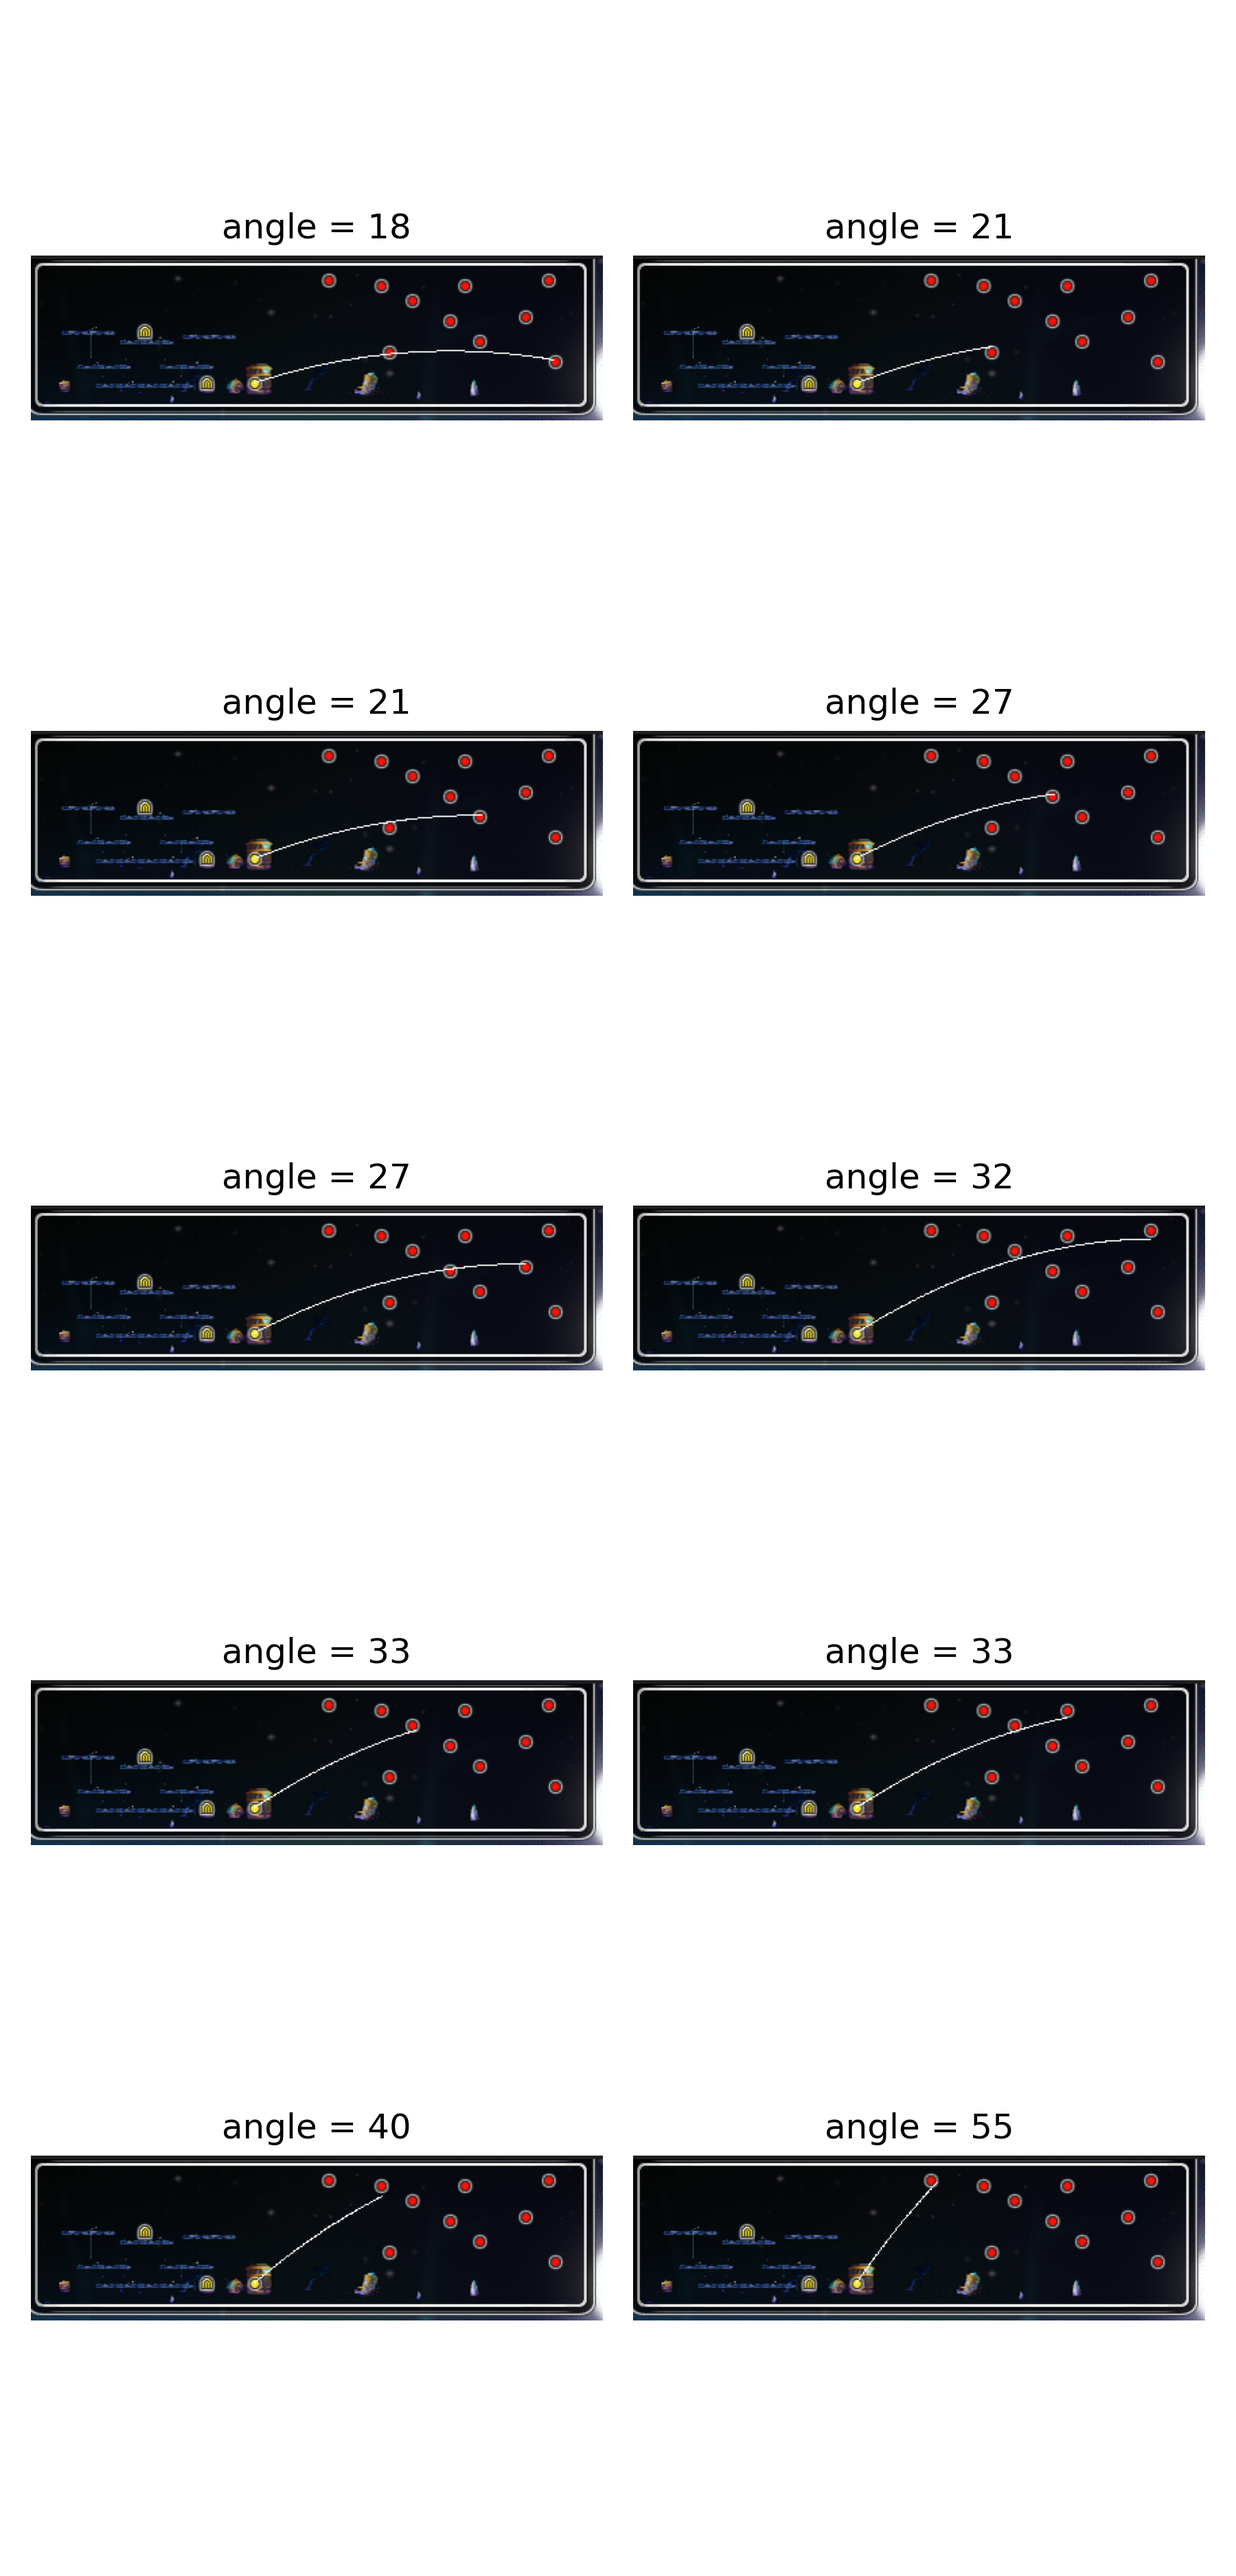
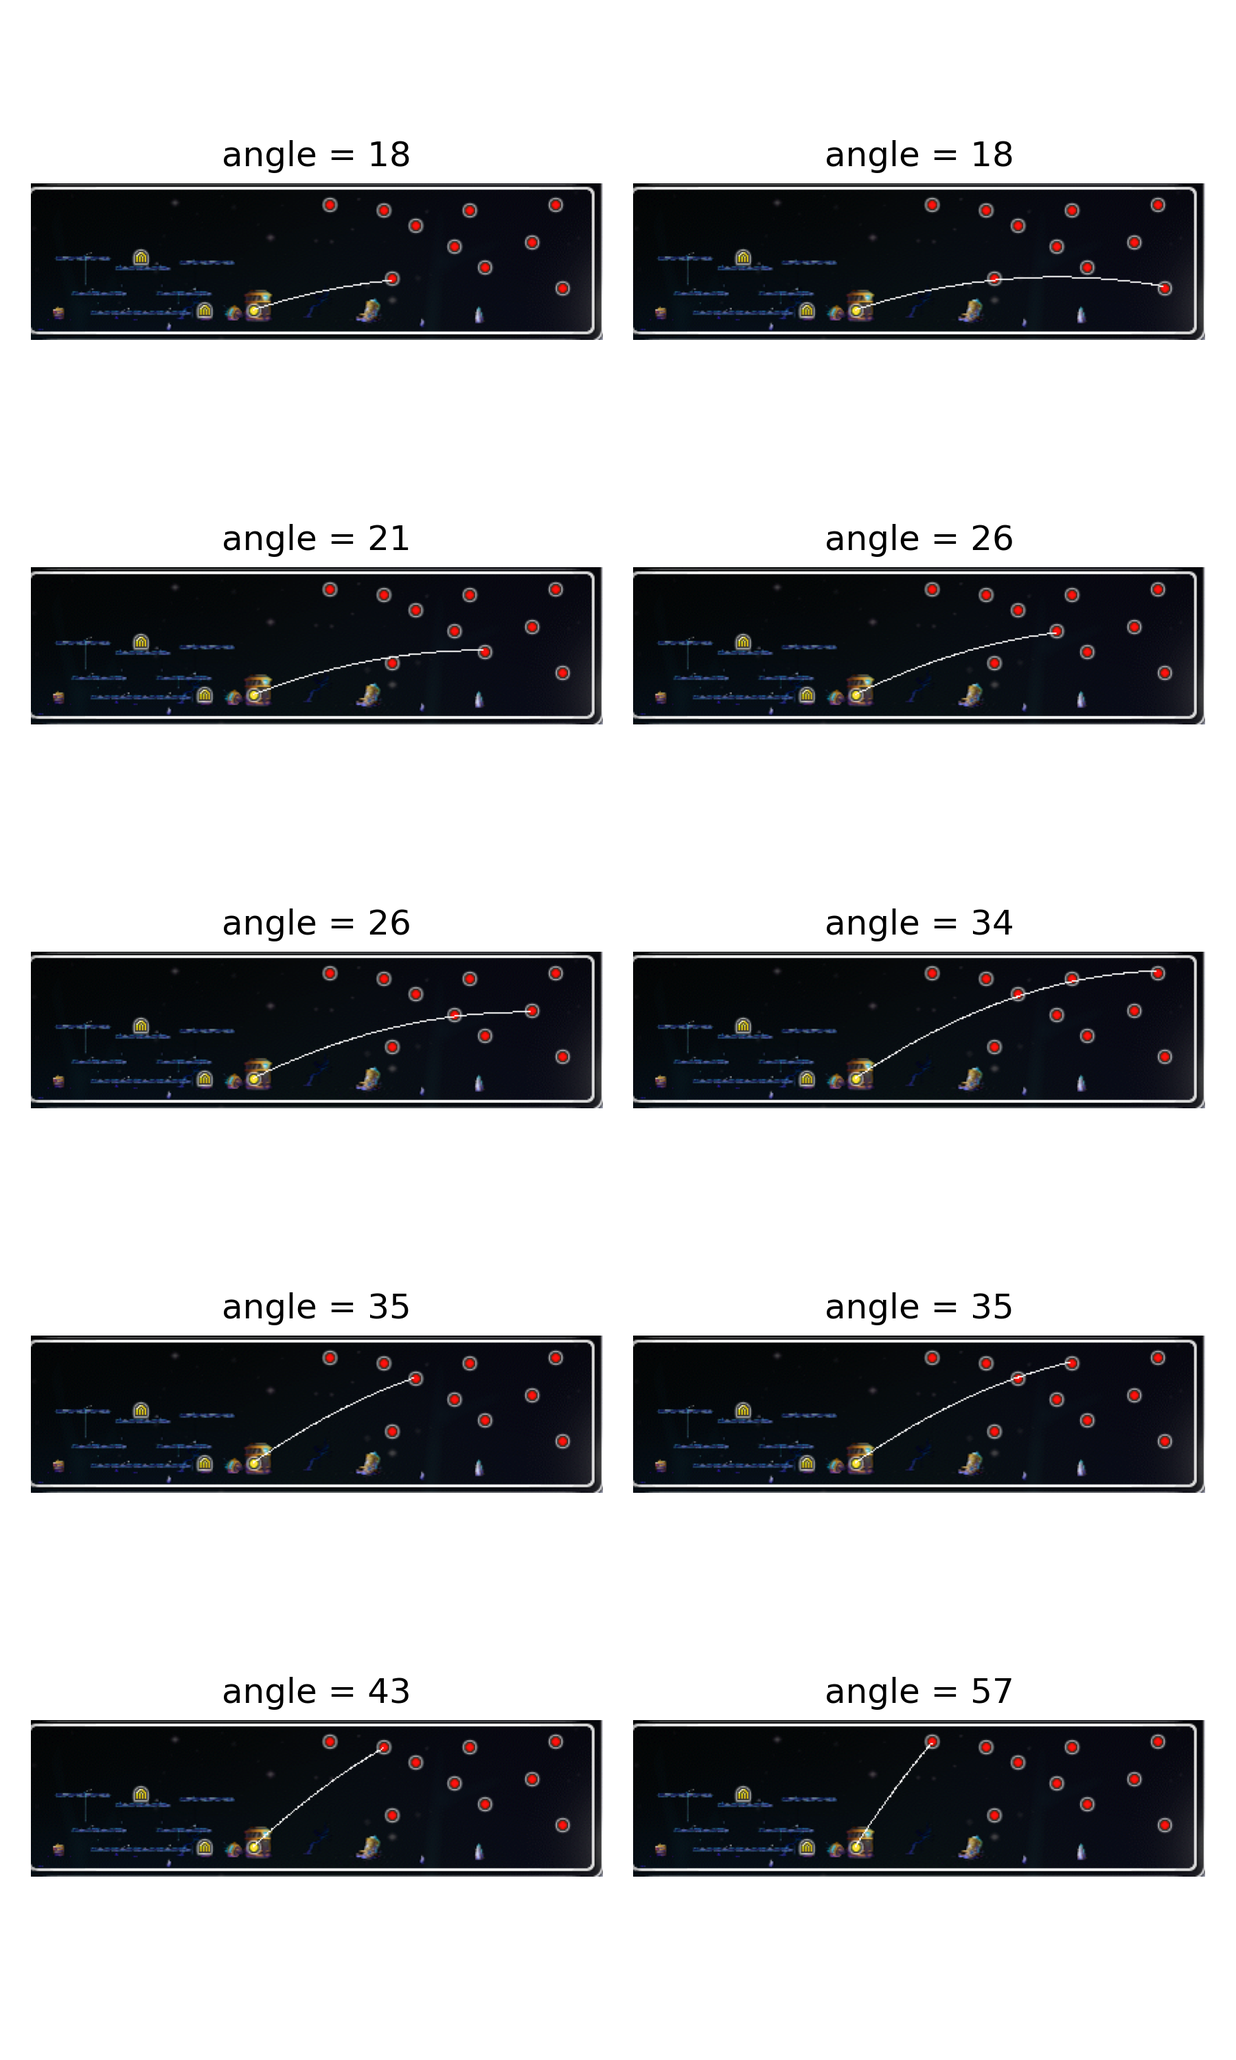
fix: group middle

diff --git a/main.py b/main.py
@@ -70,13 +70,20 @@ tmp = []
 tmpp = []
 tmpp.append(target[0])
 for i in range(1, len(target)):
-    tmpp.append(target[i])
     if math.dist(target[i-1], target[i]) > 10:
-        tmp.append( [np.average(np.array(tmpp).T[0]), np.average(np.array(tmpp).T[1])] )
+        tmp.append( [np.average(np.array(tmpp).T[0]), np.average(np.array(tmpp).T[1])  ] )
         tmpp = []
+    tmpp.append(target[i])
 tmp.append( [np.average(np.array(tmpp).T[0]), np.average(np.array(tmpp).T[1])] )
 
 target = tmp
+
+tmpIm = Image.open("tmp/0.png")
+for t in target:
+    tmpIm.putpixel((int(t[0]), int(t[1])), (255,255,255,99) )    
+tmpIm.save("tmp/1.png")
+
+
 V0X, V0Y = 1000, 1000
 
 
@@ -135,7 +142,7 @@ while angle <= 90:
 
 
 
-plt.figure(figsize=(6,  (int((len(imglist)-1)/2)+1)*2.5  ))
+plt.figure(figsize=(6,  (int((len(imglist)-1)/2)+1)*2  ))
 for ind in range(len(imglist)):
     plt.subplot(int((len(imglist)-1)/2)+1, 2, ind+1)
     plt.axis('off')
